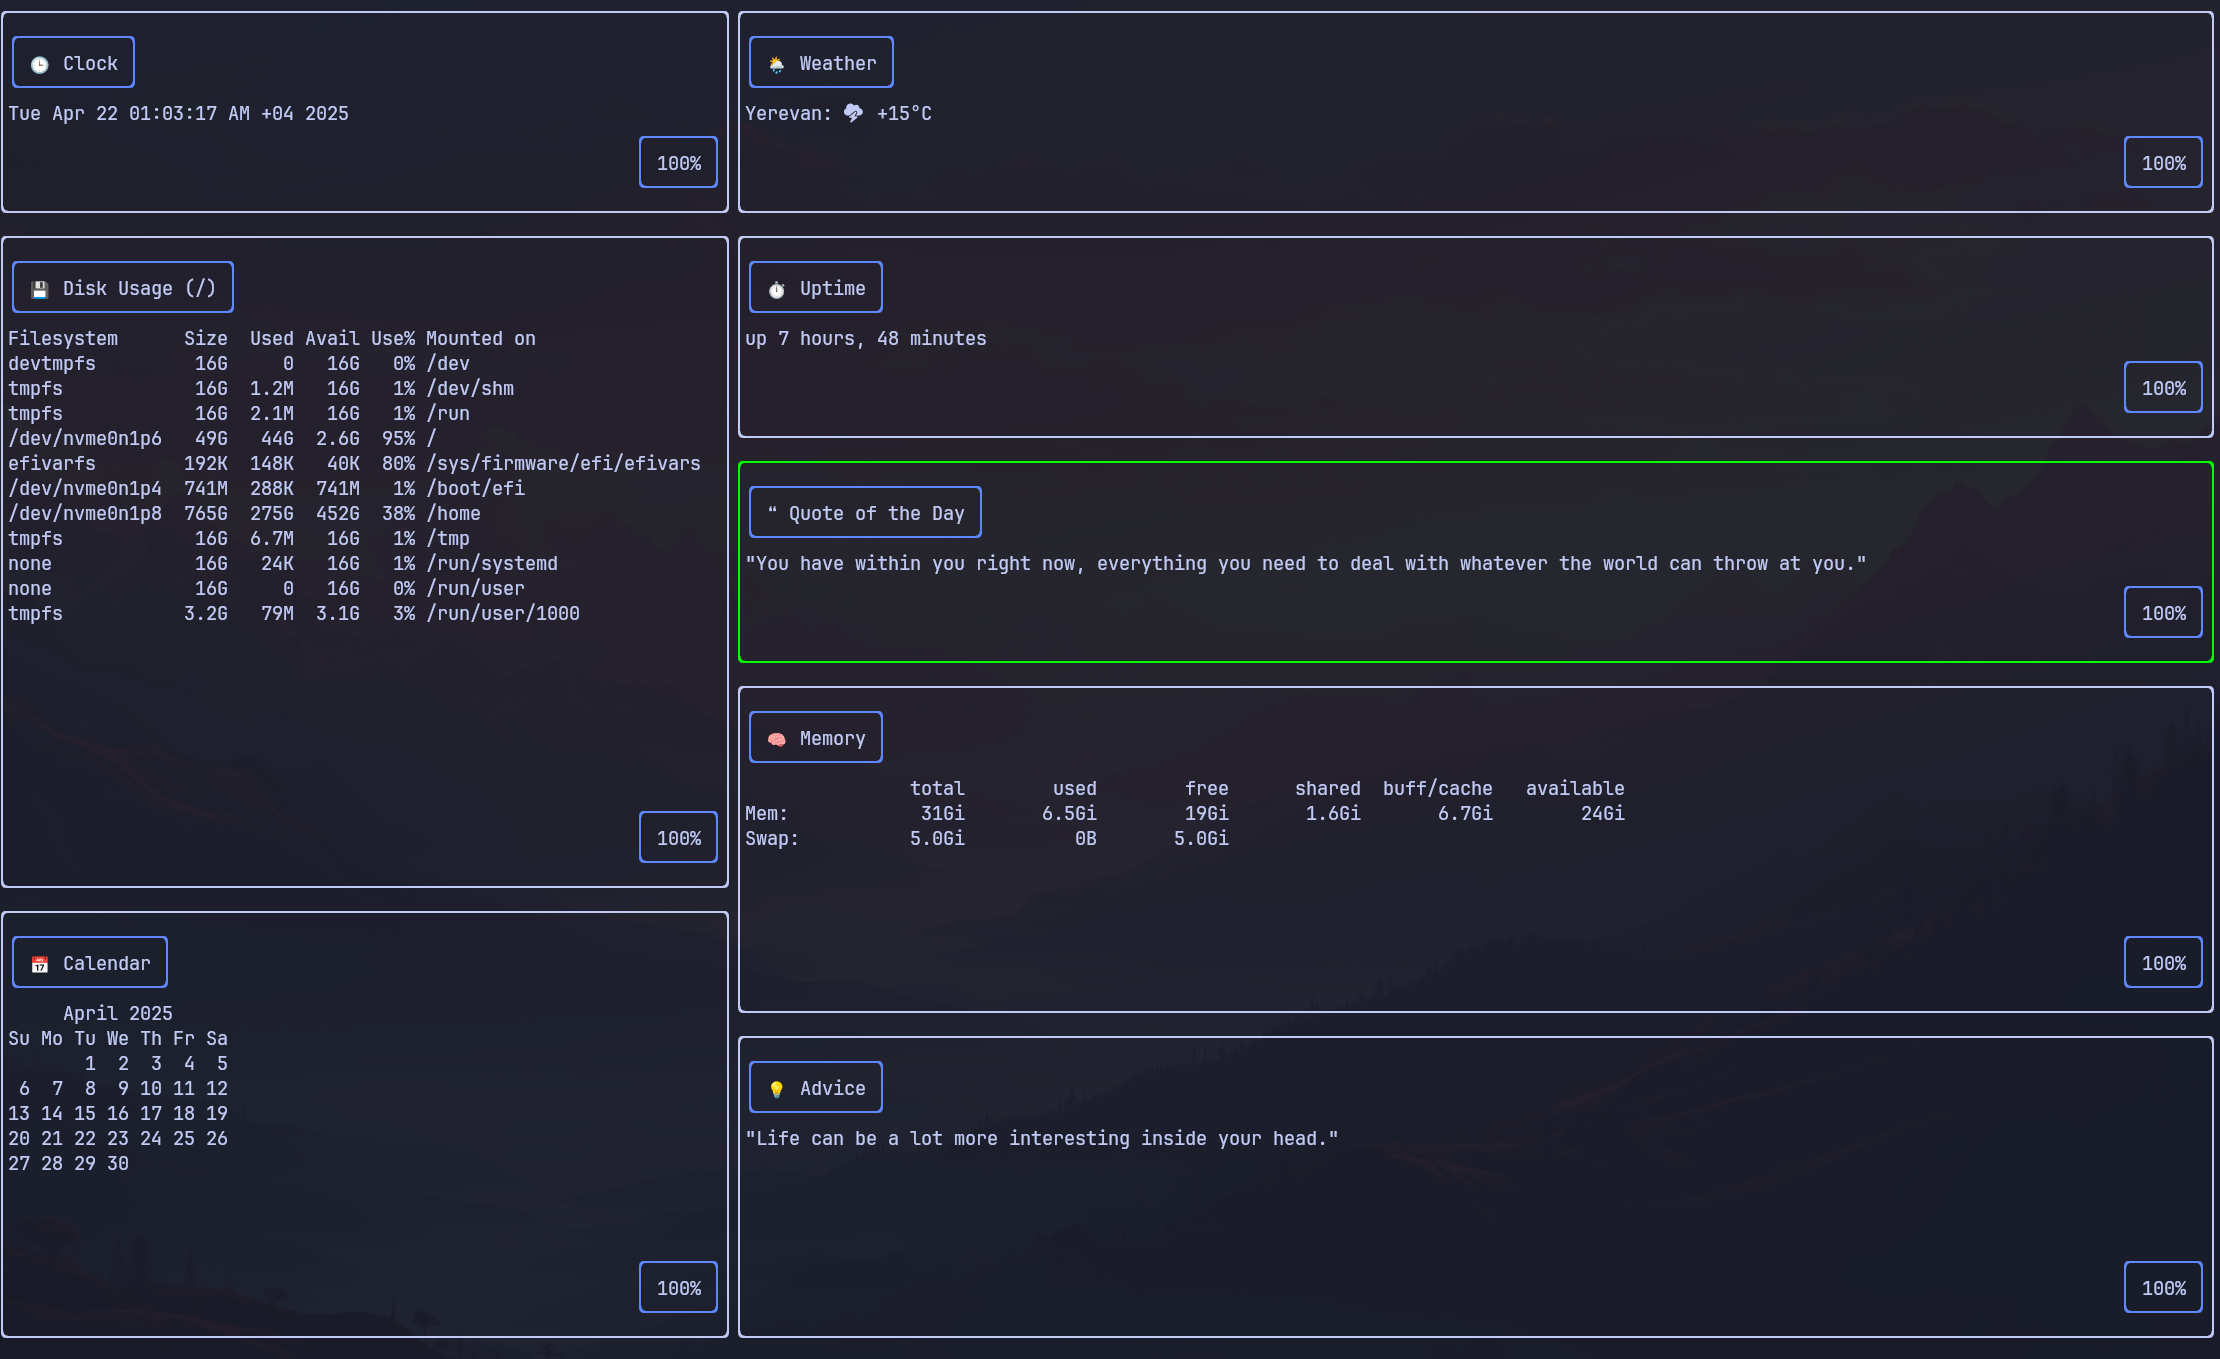
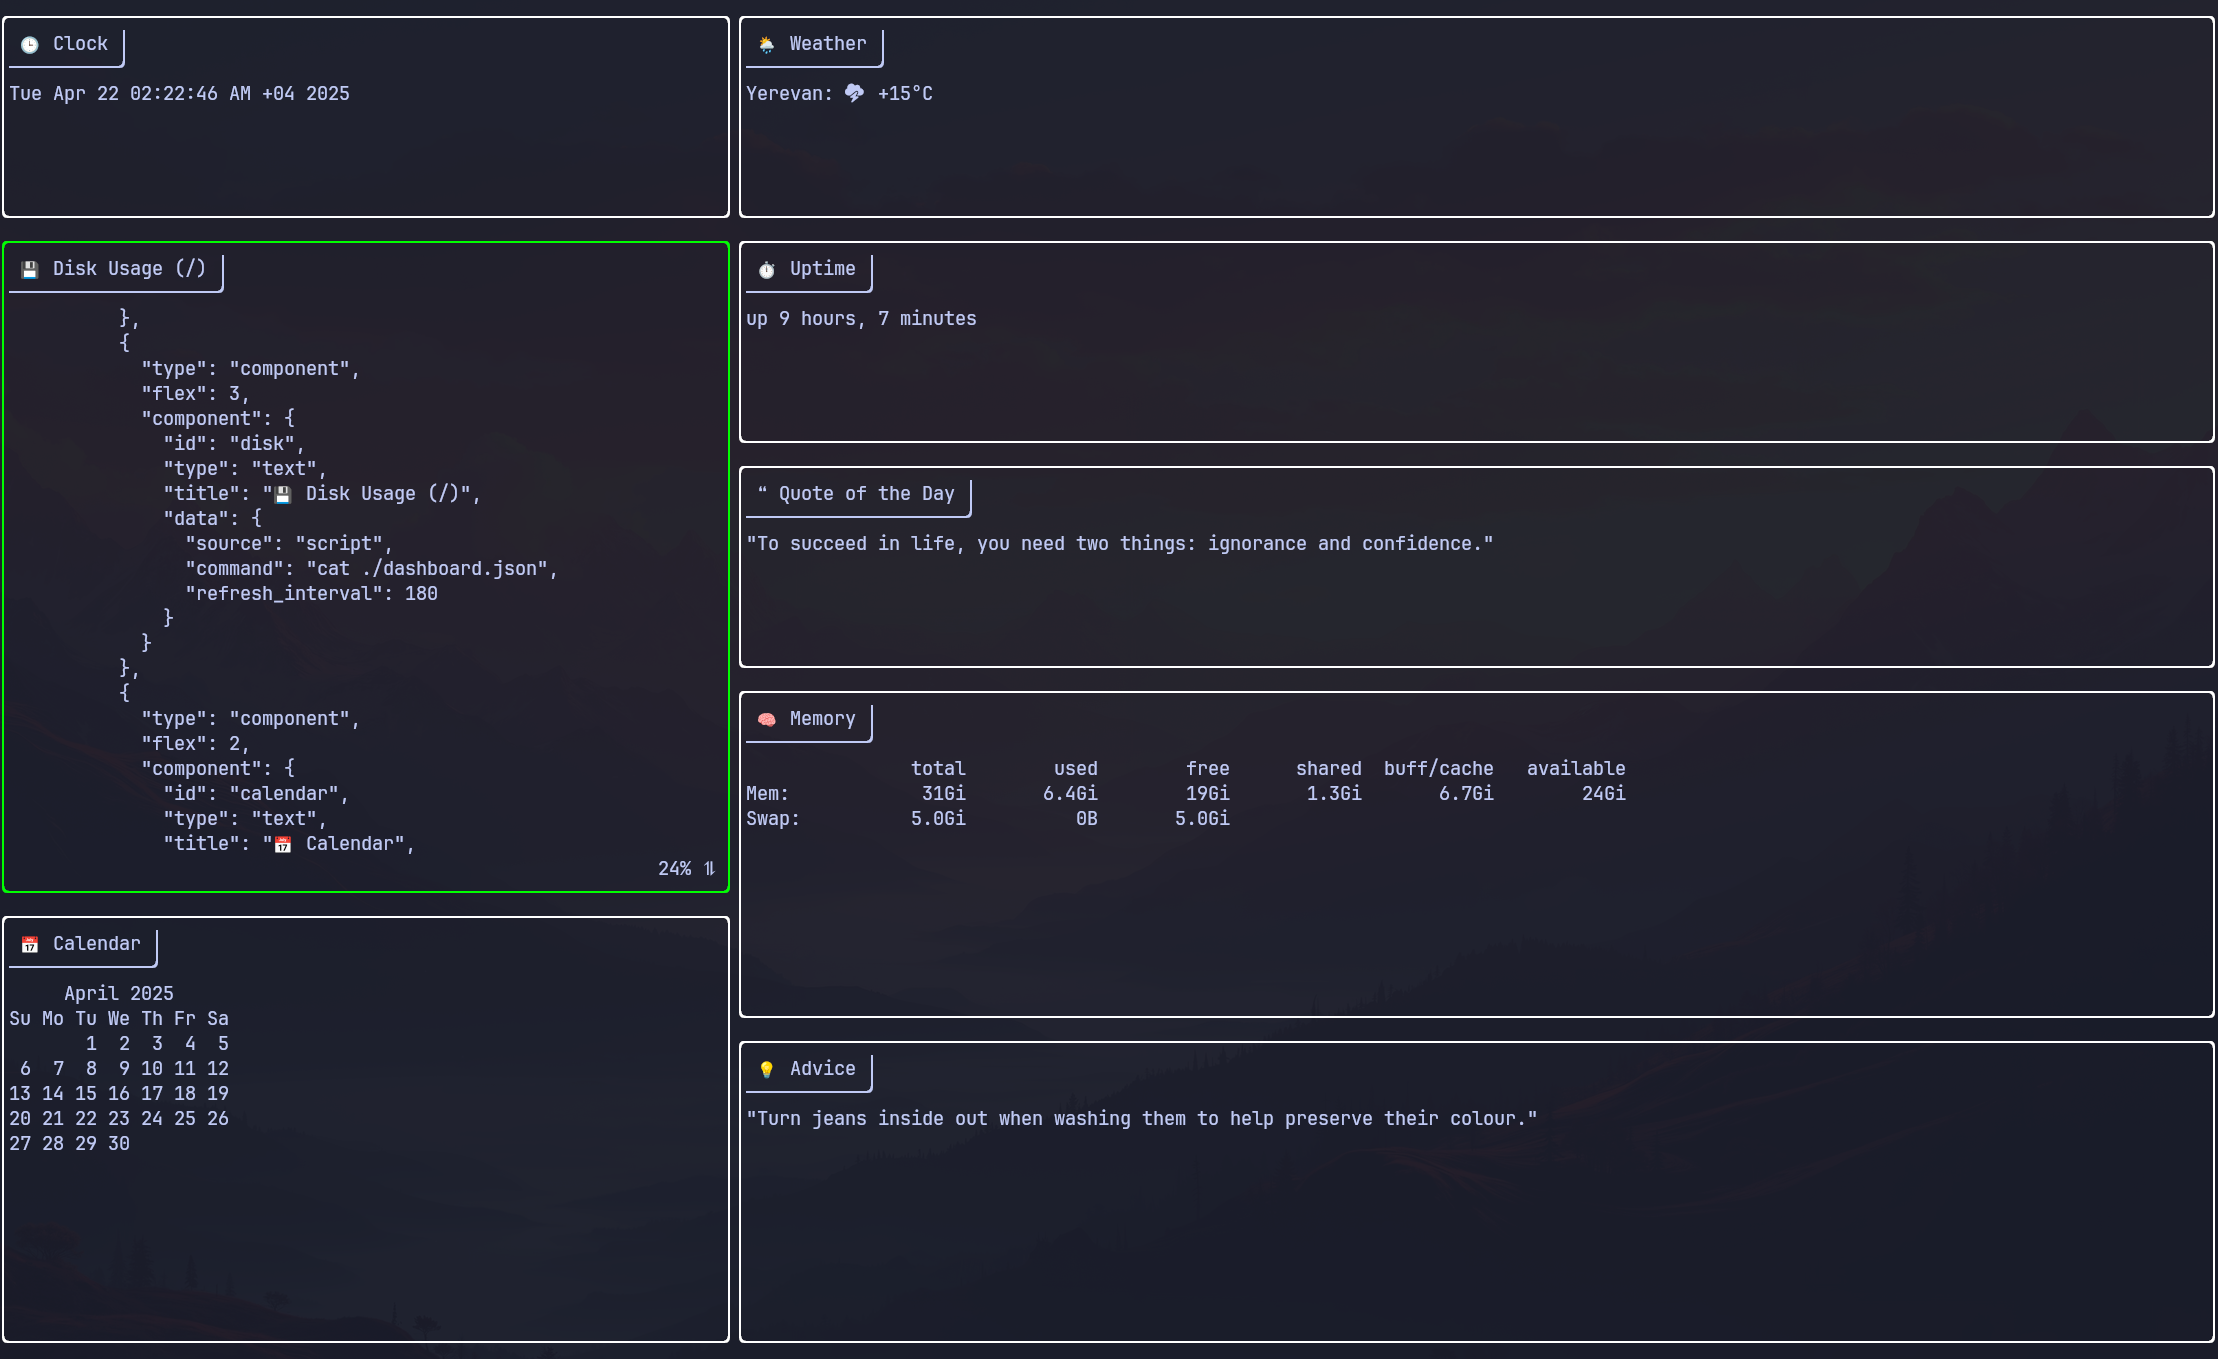
Update Default Styles, Add Configurable Styles

diff --git a/internal/tui/text.go b/internal/tui/text.go
@@ -10,22 +10,6 @@ import (
 	"github.com/rasjonell/dashbrew/internal/data"
 )
 
-var (
-	vpTitleStyle = func() lipgloss.Style {
-		b := lipgloss.RoundedBorder()
-		return lipgloss.NewStyle().BorderStyle(b).Padding(0, 1).BorderForeground(lipgloss.Color("69")) // Nice
-	}()
-
-	vapInfoStyle = func() lipgloss.Style {
-		b := lipgloss.RoundedBorder()
-		return vpTitleStyle.BorderStyle(b)
-	}()
-
-	headerHeight  = lipgloss.Height(renderViewportHeader("", 0))
-	footerHeight  = lipgloss.Height(renderViewportFooter(viewport.Model{}, 0))
-	vMarginHeight = headerHeight + footerHeight
-)
-
 func (m *model) renderTextComponent(comp *config.Component, w, h int) string {
 	if !m.vpReady {
 		return lipgloss.Place(w, h, lipgloss.Center, lipgloss.Center, "[Initializing Viewport...]")
@@ -37,14 +21,26 @@ func (m *model) renderTextComponent(comp *config.Component, w, h int) string {
 		return lipgloss.Place(w, h, lipgloss.Center, lipgloss.Center, "[Error: Viewport not found]")
 	}
 
-	header := renderViewportHeader(comp.Title, vp.Width)
-	footer := renderViewportFooter(vp, vp.Width)
-	vp.Width = w
-	vp.Height = max(0, h-lipgloss.Height(header)-lipgloss.Height(footer))
+	_, _, border := m.getBorderStyle()
+	header := renderViewportHeader(comp.Title, border)
+	combinedHeight := lipgloss.Height(header) + 1
 
+	vp.Width = w
+	vp.Height = max(0, h-combinedHeight)
 	m.viewports[id] = vp
 
-	return fmt.Sprintf("%s\n%s\n%s", header, vp.View(), footer)
+	var footer string
+	if !(vp.AtTop() && vp.AtBottom()) {
+		footer = renderViewportFooter(vp, vp.Width)
+	} else {
+		footer = ""
+	}
+
+	return lipgloss.JoinVertical(lipgloss.Left,
+		header,
+		vp.View(),
+		footer,
+	)
 }
 
 func (m *model) setTextContent(id string, output data.FetchOutput) {
@@ -52,28 +48,28 @@ func (m *model) setTextContent(id string, output data.FetchOutput) {
 
 	if vp, ok := m.viewports[id]; ok && m.vpReady {
 		if output.Error() != nil {
-			vp.SetContent(lipgloss.NewStyle().Width(vp.Width).Render(fmt.Sprintf("[error]\n%s", output.Error())))
+			vp.SetContent(wrapContent(fmt.Sprintf("[error]\n%s", output.Error()), vp.Width))
 		} else {
-			vp.SetContent(lipgloss.NewStyle().Width(vp.Width).Render(output.Output()))
+			vp.SetContent(wrapContent(output.Output(), vp.Width))
 		}
 		vp.GotoTop()
 		m.viewports[id] = vp
 	}
 }
 
-func renderViewportHeader(title string, vpWidth int) string {
+func renderViewportHeader(title string, border lipgloss.Border) string {
+	style := lipgloss.NewStyle().Border(border, false, true, true, false).Padding(0, 1)
 	if title == "" {
 		title = "Untitled"
 	}
-	styledTitle := vpTitleStyle.Render(title)
-	lineWidth := max(0, vpWidth-lipgloss.Width(styledTitle))
-	line := strings.Repeat(" ", lineWidth)
-	return lipgloss.JoinHorizontal(lipgloss.Left, styledTitle, line)
+	return style.Render(title)
 }
 
 func renderViewportFooter(vp viewport.Model, vpWidth int) string {
-	info := vapInfoStyle.Render(fmt.Sprintf("%3.f%%", vp.ScrollPercent()*100))
-	lineWidth := max(0, vpWidth-lipgloss.Width(info))
-	line := strings.Repeat(" ", lineWidth)
-	return lipgloss.JoinHorizontal(lipgloss.Right, line, info)
+	percentStr := fmt.Sprintf("%3.f%% ⥮ ", vp.ScrollPercent()*100)
+	paddingWidth := max(0, vpWidth-lipgloss.Width(percentStr))
+
+	padding := strings.Repeat(" ", paddingWidth)
+
+	return padding + percentStr
 }

diff --git a/internal/tui/styles.go b/internal/tui/styles.go
@@ -1,0 +1,57 @@
+package tui
+
+import (
+	"github.com/charmbracelet/lipgloss"
+)
+
+func (m *model) getBorderStyle() (normal lipgloss.Style, focused lipgloss.Style, border lipgloss.Border) {
+	border = lipgloss.RoundedBorder()
+	normalColor := getColor(m.cfg.Style.BorderColor, lipgloss.Color("#d9ebf9"))
+	focusedColor := getColor(m.cfg.Style.FocusedBorderColor, lipgloss.Color("#00ff00"))
+
+	if m.cfg.Style == nil {
+		style := lipgloss.NewStyle().Border(border)
+		return style, style.BorderForeground(focusedColor), border
+	}
+
+	switch m.cfg.Style.BorderType {
+	case "rounded":
+		border = lipgloss.RoundedBorder()
+	case "thicc":
+		border = lipgloss.ThickBorder()
+	case "double":
+		border = lipgloss.DoubleBorder()
+	case "hidden":
+		border = lipgloss.HiddenBorder()
+	case "normal":
+		border = lipgloss.NormalBorder()
+	case "md":
+		border = lipgloss.MarkdownBorder()
+	case "ascii":
+		border = lipgloss.ASCIIBorder()
+	case "block":
+		border = lipgloss.BlockBorder()
+	}
+
+	configColor := m.cfg.Style.FocusedBorderColor
+	if len(configColor) == 7 && configColor[0] == '#' {
+		focusedColor = lipgloss.Color(configColor)
+	}
+
+	style := lipgloss.NewStyle().Border(border).BorderForeground(normalColor)
+	return style, style.BorderForeground(focusedColor), border
+}
+
+func getColor(configColor string, defaultColor lipgloss.Color) lipgloss.Color {
+	if len(configColor) == 7 && configColor[0] == '#' {
+		return lipgloss.Color(configColor)
+	}
+	return defaultColor
+}
+
+func wrapContent(content string, width int) string {
+	return lipgloss.
+		NewStyle().
+		Width(width).
+		Render(content)
+}

diff --git a/internal/tui/renderer.go b/internal/tui/renderer.go
@@ -11,15 +11,7 @@ const (
 	borderSize = 1
 )
 
-var (
-	defaultBorder = lipgloss.RoundedBorder()
-	defaultStyle  = lipgloss.NewStyle().Border(defaultBorder)
-
-	focusedBorder = defaultBorder
-	focusedStyle  = lipgloss.NewStyle().Border(focusedBorder).BorderForeground(lipgloss.Color("#00ff00"))
-)
-
-func renderNode(
+func (m *model) renderNode(
 	node *config.LayoutNode,
 	width, height int,
 	renderComponent func(*config.Component, int, int) string,
@@ -32,7 +24,7 @@ func renderNode(
 		}
 		w, h := calcWidthHeight(width, height)
 
-		style := defaultStyle
+		style, focusedStyle, _ := m.getBorderStyle()
 		if componentId(node.Component) == focusedComponentId {
 			style = focusedStyle
 		}
@@ -70,7 +62,7 @@ func renderNode(
 				}
 				childHeight = height
 				offset += childWidth
-				rendered = append(rendered, renderNode(child, childWidth, childHeight, renderComponent, focusedComponentId))
+				rendered = append(rendered, m.renderNode(child, childWidth, childHeight, renderComponent, focusedComponentId))
 			} else {
 				if isLast {
 					childHeight = height - offset
@@ -79,7 +71,7 @@ func renderNode(
 				}
 				childWidth = width
 				offset += childHeight
-				rendered = append(rendered, renderNode(child, childWidth, childHeight, renderComponent, focusedComponentId))
+				rendered = append(rendered, m.renderNode(child, childWidth, childHeight, renderComponent, focusedComponentId))
 			}
 		}
 

diff --git a/internal/tui/viewport.go b/internal/tui/viewport.go
@@ -4,7 +4,6 @@ import (
 	"fmt"
 
 	"github.com/charmbracelet/bubbles/viewport"
-	"github.com/charmbracelet/lipgloss"
 )
 
 func (m *model) updateViewports() {
@@ -32,16 +31,16 @@ func (m *model) updateViewports() {
 			vp.Height = vpHeight
 		}
 
-		vp.YPosition = headerHeight
+		vp.YPosition = 1
 		vp.MouseWheelEnabled = true
 
 		switch comp.Type {
 		case "text":
 			if output, dataOk := m.textOutputs[id]; dataOk {
 				if output.Error() != nil {
-					vp.SetContent(fmt.Sprintf("[error]\n%s", output.Error()))
+					vp.SetContent(wrapContent(fmt.Sprintf("[error]\n%s", output.Error()), vp.Width))
 				} else {
-					vp.SetContent(lipgloss.NewStyle().Width(vp.Width).Render(output.Output()))
+					vp.SetContent(wrapContent(output.Output(), vp.Width))
 				}
 			} else if vp.TotalLineCount() == 0 {
 				vp.SetContent("[loading...]")

diff --git a/internal/tui/tui.go b/internal/tui/tui.go
@@ -146,7 +146,7 @@ func (m *model) Update(msg tea.Msg) (tea.Model, tea.Cmd) {
 				return m, nil
 			}
 		case key.Matches(msg, keys.Refresh):
-			if comp, ok := m.componentMap[m.focusedComponentId]; ok {
+			if comp, ok := m.componentMap[m.focusedComponentId]; ok && comp.Data.RefreshInterval > 0 {
 				return m, fetchComponentAsyncCmd(m.focusedComponentId, comp)
 			}
 		}
@@ -175,7 +175,7 @@ func (m *model) View() string {
 		m.handleResize(m.width, m.height)
 	}
 
-	return renderNode(
+	return m.renderNode(
 		m.cfg.Layout,
 		m.width, m.height,
 		m.getComponentContent,

diff --git a/internal/config/config.go b/internal/config/config.go
@@ -6,7 +6,14 @@ import (
 )
 
 type DashboardConfig struct {
-	Layout *LayoutNode `json:"layout"`
+	Style  *StyleConfig `json:"style,omitempty"`
+	Layout *LayoutNode  `json:"layout"`
+}
+
+type StyleConfig struct {
+	BorderType         string `json:"borderType,omitempty"`
+	BorderColor        string `json:"BorderColor,omitempty"`
+	FocusedBorderColor string `json:"focusedBorderColor,omitempty"`
 }
 
 type LayoutNode struct {

diff --git a/README.md b/README.md
@@ -40,6 +40,11 @@ Dashbrew uses a `json` file in to define the layout and components.
 
 ```jsonc
 {
+  "style": {
+    "borderType": "rounded",
+    "borderColor": "#ffffff",
+    "focusedBorderColor": "#00ff00"
+  },
   "layout": {
     "type": "container", // "container" or "component"
     "direction": "row",  // "row" or "column" (for containers)
@@ -49,6 +54,14 @@ Dashbrew uses a `json` file in to define the layout and components.
   }
 }
 ```
+
+### Style Configuration:
+
+*All of the style configuration is optional, defaults will be used when not provided.*
+
+- `borderType`: `"rounded"` | `"thicc"` | `"double"` | `"hidden"` | `"normal"` | `"md"` | `"ascii"` | `"block"`
+- `borderColor`: any valid hex color (`#ffffff`, `#696969`)
+- `focusedBorderColor`: any valid hex color (`#00ff00`, `#694200`)
 
 ### Layout Nodes:
 
@@ -74,7 +87,6 @@ Dashbrew uses a `json` file in to define the layout and components.
   }
 }
 ```
-
 
 - `id`: (Optional) A unique ID. If omitted, an internal ID is generated.
 - `type`: The type of widget. Currently, only "text" is implemented (displays text content with scrolling).
